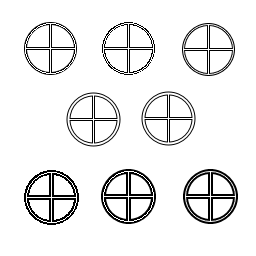
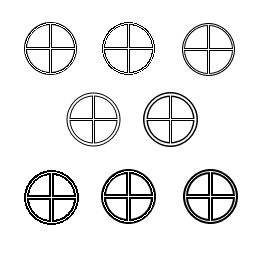
Fix reading of config file.  Add latest marker tweak and update template

Changed region(s): [[0.5312, 0.3438, 0.7812, 0.5938]]

diff --git a/src/marker.py b/src/marker.py
@@ -37,7 +37,7 @@ class Marker(QGraphicsPixmapItem):
         
         pen = QtGui.QPen(border_color)
         painter.setRenderHint(QtGui.QPainter.Antialiasing, True)
-        pen.setWidth(4)
+        pen.setWidth(5)
         painter.setPen(pen)
         painter.drawEllipse(QtCore.QRectF(center-r+0.5,center-r+0.5,2*r,2*r))
         painter.setRenderHint(QtGui.QPainter.Antialiasing, False)
@@ -61,14 +61,14 @@ class Marker(QGraphicsPixmapItem):
 
     def _initPixmaps(self) -> None:
         config = ConfigParser()
-        config.read('config.ini')
+        config.read(str(Path('config') / 'config.ini'))
         size = config.getint('Marker', 'pixmap_size', fallback=64)
-        r    = config.getint('Marker', 'radius', fallback=20)
+        r    = config.getint('Marker', 'radius', fallback=25)
         transparent_color      = QtGui.QColor("#00ffffff")
         unselected_color       = QtGui.QColor(config.get('Marker', 'color_default', fallback='#ffffffff'))
         selected_color         = QtGui.QColor(config.get('Marker', 'color_selected', fallback='#ffffff00'))
         prehighlighted_color   = QtGui.QColor(config.get('Marker', 'color_prehighlighted', fallback='#10ffff00'))
-        border_color            = QtGui.QColor(config.get('Marker', 'color_border', fallback='#000000'))
+        border_color           = QtGui.QColor(config.get('Marker', 'color_border', fallback='#000000'))
         Marker.unselected_pixmap                = self._drawPixmap(size,r,unselected_color,   transparent_color,border_color)
         Marker.selected_pixmap                  = self._drawPixmap(size,r,  selected_color,   transparent_color,border_color)
         Marker.prehighlighted_pixmap            = self._drawPixmap(size,r,unselected_color,prehighlighted_color,border_color)    # unused
